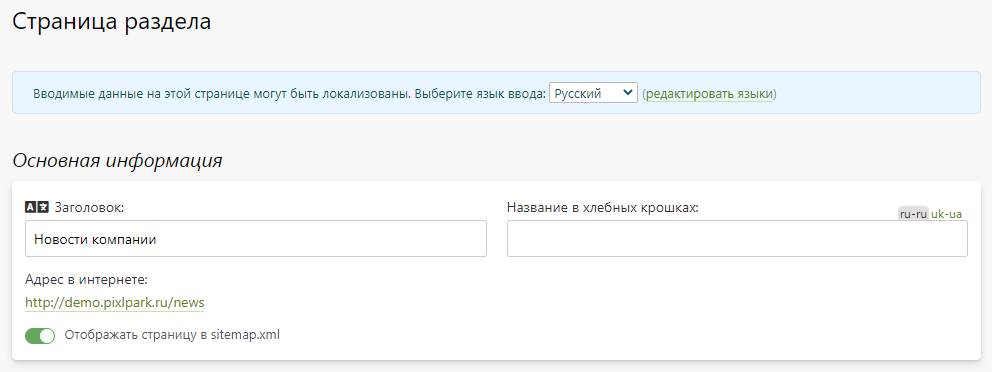
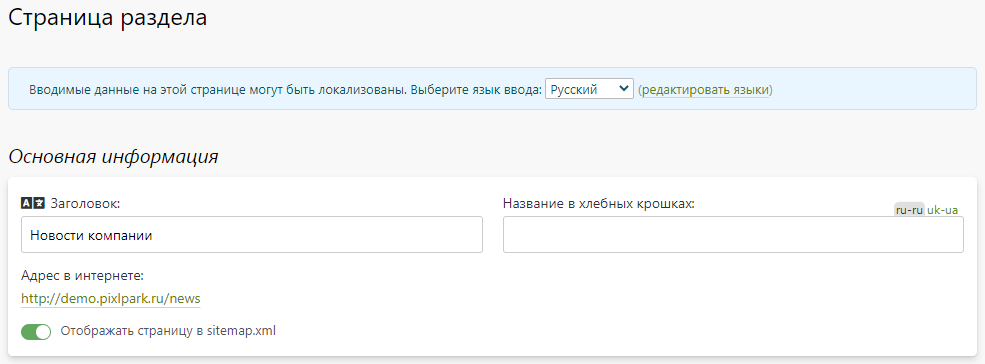
мелочи

diff --git a/docs/dev/design.md b/docs/dev/design.md
@@ -4,13 +4,13 @@
 * Сервис Pixlpark представлен [демо-сайтом](https://demo.pixlpark.ru/), внешний вид которого обладает набором стандартных дизайнов для шапки, меню, подвала, продуктовых страниц и калькуляторов. Ознакомиться с ними можно в панели "Оформление сайта", появляющейся при нажатии кнопки в левом верхнем углу сайта. Обращаем внимание, что данная панель присутствует только на демонстрационном сайте, а не на тестовых и боевых сайтах. 
 * Если вы используете сайт со стандартным дизайном, то изменить внешний вид какого-либо блока можно либо по заявке в техническую поддержку, либо самостоятельно, скопировав необходимую HTML-разметку с демонстрации.
 * Также можно провести брендирование демо-сайта или отдельных его блоков под корпоративный стиль или цвета логотипа.
-![](../_media/misc/standard-designs.png ':size=70%')
+![](../_media/misc/standard-designs.png ':size=80%')
 
 ## Разработка уникального дизайна
 * Однако, если вы, хотите, чтобы ваш сайт отличался от стандартного, можно разработать уникальный дизайн. Это можем сделать либо мы, либо вы (собственными силами, либо обратившись за помощью к профессионалам - веб-дизайнерам).
 * Самым бюджетным вариантом персонализации дизайна может считаться небольшое изменение внешнего вида любых блоков демо-сайта. Такой вариант подойдет если вам, например, надо изменить текст, баннеры, иллюстрации, иконки, отступы между элементами и их расположение.
 * Однако, если это не ваш случай, то при разработке уникального дизайна вам, всё же, необходимо будет придерживаться схемы расположения стандартных секций страниц сайта. Но, некоторые секции могут быть пропущены.
-![](../_media/dev/dev08.png ':size=50%')
+![](../_media/dev/dev08.png)
 
 ## Внедрение уникального дизайна
 * Внедрять разработанный уникальный дизайн можем как мы, так и вы. Для этого нужно воспользоваться следующими инструментами панели управления:
@@ -21,4 +21,7 @@
     + __Локализация__ (CMS / Локализация сайта) - редактирование текстовых констант сайта.
     + __Файлы__ (CMS / Менеджер файлов) - загрузка иллюстраций для последующего обращения к нам со страниц сайта или стилевых файлов.
     + __CSS-стили__ (CMS / Менеджер файлов - style.css | media.css) - редактирование стилей сайта для настольной и адаптивной версии. 
-*![](../_media/dev/design-elements.png ':size=70%')
+*![](../_media/dev/design-elements.png)
+
+* Добавим, что сервис Pixlpark также позволяет использовать разметку с внешнего сайта, которая может выводиться в CMS через константу __[$getRemote(https://адрес-сайта)$]__.
+*![](../_media/cms/remote.png)

diff --git a/docs/print/page.md b/docs/print/page.md
@@ -1,14 +1,16 @@
 # Страница раздела
-* В данном разделе можно сконфигурировать страницу списка категорий.  
+## Описание
+* В данном разделе можно сконфигурировать страницу [списка категорий](), доступной по адресу "__/printing__".  
 * Для простоты понимания можно представить, что страница категорий - это обычная страница сайта, обладающая теми же свойствами.
- 
+![](../_media/print/catalog.png ':size=80%') 
+
 ## Основная информация
 * __Заголовок__ - заголовок, который используется в качестве H1, если его нет в содержимом страницы.
 * __Название в хлебных крошках__ - название страницы в навигационной цепочке, которое выводится через константу `[$breadcrumbs$]`. Если название не задано, то используется заголовок.
 * __Адрес в интернете__ - адрес страницы на сайте.
 * __Отображать страницу в sitemap.xml__ - включить страницу в файл sitemap.xml, который используется для информирования поисковых систем о ее наличии на сайте.
-![](../_media/print/print11.png ':size=70%')
+![](../_media/print/page-general.png)
 
 ## Содержимое страницы
 * В данной разделе задается содержимое секций, из которых формируется страница сайта. По умолчанию содержимое задается в виде HTML-разметки, которая также может содержать стили и скрипты. Список категорий автоматически встраивается в секцию "Основной контент".
-![](../_media/print/print12.png ':size=70%')
+![](../_media/print/page-content.png)

diff --git a/docs/print/settings.md b/docs/print/settings.md
@@ -1,15 +1,20 @@
 # Настройка
 ## Основная информация
-* В данном разделе представлены общие настройки продуктов, шаблонов и редакторов.
-![](../_media/print/print13.png ':size=50%')
+* В данном разделе представлены общие настройки продуктов, дизайнов, мерча и редакторов.
+![](../_media/print/settings-general.png)
 
-## Редактор
+## Шрифты
 * В данном разделе представлены нестандартные шрифты, которые можно включить для редактора дизайнов.
-![](../_media/print/print14.png ':size=50%')
+* Также на странице можно:
+    + Загрузить сторонний шрифт из Google.
+    + Загрузить свой шрифт с компьютера.
+    + Скачать любой шрифт на компьютер.
+    + Выключить или включить доступность любого шрифта.
+* ![](../_media/print/settings-fonts.png)
 
 ## Метаинформация
 * В данном разделе задается информация для поисковых систем (метаинформация) - заголовок, описание и ключевые слова, которые используются по умолчанию для всех категорий и продуктов, если она у них не задана. Однако, для каждой категории и продукта можно задать свою собственную информацию.
-![](../_media/print/print15.png ':size=50%')
+![](../_media/print/settings-seo.png)
 
 ## Импорт
 * В данном разделе можно импортировать категории и продукты с одного из существующих сайтов в текущий.
@@ -31,5 +36,4 @@
     + клипарты;
     + переменные;
     + словари.
-
-![](../_media/print/print16.png ':size=70%')
+* ![](../_media/print/settings-import.png)

diff --git a/docs/faq/page.md b/docs/faq/page.md
@@ -1,6 +1,6 @@
 # Страница раздела
 ## Описание
-* В данном разделе можно сконфигурировать страницу списка [категорий и статей](https://demo.pixlpark.ru/faq).  
+* В данном разделе можно сконфигурировать страницу списка [категорий и статей](https://demo.pixlpark.ru/faq), доступной по адресу "__/faq__".  
 * Для простоты понимания можно представить, что страница списка категорий и статей - это обычная страница сайта, обладающая теми же самыми свойствами.
 ![](../_media/faq/faq.png ':size=80%')
 
@@ -9,7 +9,7 @@
 * __Название в хлебных крошках__ - название страницы в навигационной цепочке, которая выводится через константу `[$breadcrumbs$]`. Если название не задано, то используется заголовок.
 * __Адрес в интернете__ - адрес страницы на сайте.
 * __Отображать страницу в sitemap.xml__ - включить страницу в файл sitemap.xml, который используется для информирования поисковых систем о наличии на сайте данной страницы.
-![](../_media/faq/faq07.png)
+![](../_media/faq/page-general.png)
 
 ## Содержимое страницы
 * В данной разделе задается содержимое секций, из которых формируется страница сайта. По умолчанию содержимое задается в виде HTML-разметки, которая также может содержать стили и скрипты. Список категорий и статей автоматически встраивается в самый низ секции "__Основной контент__".

diff --git a/docs/gallery/page.md b/docs/gallery/page.md
@@ -1,6 +1,6 @@
 # Страница раздела
 ## Описание
-* В данном разделе можно сконфигурировать страницу [списка категорий](https://demo.pixlpark.ru/portfolio).  
+* В данном разделе можно сконфигурировать страницу [списка категорий](https://demo.pixlpark.ru/portfolio), доступной по адресу "__/portfolio__".  
 * Для простоты понимания можно представить, что страница категорий - это обычная страница сайта, обладающая теми же самыми свойствами.
 ![](../_media/gallery/list.png ':size=80%')
 
@@ -9,7 +9,7 @@
 * __Название в хлебных крошках__ - название страницы в навигационной цепочке, которая выводится через константу `[$breadcrumbs$]`. Если название не задано, то используется заголовок.
 * __Адрес в интернете__ - адрес страницы на сайте.
 * __Отображать страницу в sitemap.xml__ - включить страницу в файл sitemap.xml, который используется для информирования поисковых систем о наличии на сайте данной страницы.
-![](../_media/gallery/gallery04.png)
+![](../_media/gallery/page-general.png)
 
 ## Содержимое страницы
 * В данной разделе задается содержимое секций, из которых формируется страница сайта. По умолчанию содержимое задается в виде HTML-разметки, которая также может содержать стили и скрипты. Список категорий в виде иллюстраций автоматически встраивается в самый низ секции "__Основной контент__".

diff --git a/docs/gift/page.md b/docs/gift/page.md
@@ -1,6 +1,6 @@
 # Страница раздела
 ## Описание
-* В данном разделе можно сконфигурировать страницу [списка категорий](https://demo.pixlpark.ru/catalog).  
+* В данном разделе можно сконфигурировать страницу [списка категорий](https://demo.pixlpark.ru/catalog), доступной по адресу "__/catalog__".  
 * Для простоты понимания можно представить, что страница категорий сувениров - это обычная страница сайта, обладающая теми же свойствами.
 ![](../_media/gift/catalog.png ':size=80%')
 
@@ -9,7 +9,7 @@
 * __Название в хлебных крошках__ - название страницы в навигационной цепочке, которая выводится через константу `[$breadcrumbs$]`. Если название не задано, то используется заголовок.
 * __Адрес в интернете__ - адрес страницы на сайте.
 * __Отображать страницу в sitemap.xml__ - включить страницу в файл sitemap.xml, который используется для информирования поисковых систем о ее наличии на сайте
-![](../_media/gift/gift22.png ':size=70%')
+![](../_media/gift/page-general.png)
 
 ## Содержимое страницы
 * В данном разделе задается содержимое секций, из которых формируется страница сайта. По умолчанию содержимое задается в виде HTML-разметки, которая также может содержать стили и скрипты. Список категорий автоматически встраивается в самом низу секции "__Основной контент__".

diff --git a/docs/news/page.md b/docs/news/page.md
@@ -1,6 +1,6 @@
 # Страница раздела
 ## Описание
-* В данном разделе можно сконфигурировать страницу списка [новостей](https://demo.pixlpark.ru/news).  
+* В данном разделе можно сконфигурировать страницу [списка новостей](https://demo.pixlpark.ru/news), доступной по адресу "__/news__".  
 * Для простоты понимания можно представить, что страница новостей - это обычная страница сайта, обладающая теми же самыми свойствами.
 ![](../_media/news/news.png ':size=80%')
 
@@ -9,7 +9,7 @@
 * __Название в хлебных крошках__ - название страницы в навигационной цепочке, которая выводится через константу `[$breadcrumbs$]`. Если название не задано, то используется заголовок.
 * __Адрес в интернете__ - адрес страницы на сайте.
 * __Отображать страницу в sitemap.xml__ - включить страницу в файл sitemap.xml, который используется для информирования поисковых систем о наличии на сайте данной страницы.
-![](../_media/feedback/page-general.png)
+![](../_media/news/page-general.png)
 
 ## Содержимое страницы
 * В данной разделе задается содержимое секций, из которых формируется страница сайта. По умолчанию содержимое задается в виде HTML-разметки, которая также может содержать стили и скрипты. Список новостей автоматически встраивается в самый низ секции "__Основной контент__".

diff --git a/docs/shop/page.md b/docs/shop/page.md
@@ -1,6 +1,6 @@
 # Страница раздела
 ## Описание
-* В данном разделе можно сконфигурировать страницу [списка категорий](https://demo.pixlpark.ru/shop).  
+* В данном разделе можно сконфигурировать страницу [списка категорий](https://demo.pixlpark.ru/shop), доступной по адресу "__/shop__".  
 * Для простоты понимания можно представить, что страница категорий магазина - это обычная страница сайта, обладающая теми же свойствами.
 ![](../_media/shop/shop.png ':size=80%')
 
@@ -9,7 +9,7 @@
 * __Название в хлебных крошках__ - название страницы в навигационной цепочке, которое выводится через константу `[$breadcrumbs$]`. Если название не задано, то используется заголовок.
 * __Адрес в интернете__ - адрес страницы на сайте.
 * __Отображать страницу в sitemap.xml__ - включить страницу в файл sitemap.xml, который используется для информирования поисковых систем о её наличии на сайте.
-![](../_media/shop/shop23.png)
+![](../_media/shop/page-general.png)
 
 ## Содержимое страницы
 * В данной разделе задается содержимое секций, из которых формируется страница сайта. По умолчанию содержимое задается в виде HTML-разметки, которая также может содержать стили и скрипты. Список категорий автоматически встраивается в самый низ секции "__Основной контент__".

diff --git a/docs/feedback/page.md b/docs/feedback/page.md
@@ -1,6 +1,6 @@
 # Страница раздела
 ## Описание
-* В данном разделе можно сконфигурировать страницу [гостевой книги](https://demo.pixlpark.ru/guestbook), где выводятся отзывы и размещена форма обратной связи.  
+* В данном разделе можно сконфигурировать страницу [гостевой книги](https://demo.pixlpark.ru/guestbook), доступной по адресу "__/guestbook__", где выводятся отзывы и размещена форма обратной связи.  
 * Для простоты понимания можно представить, что страница гостевой книги - это обычная страница сайта, обладающая теми же самыми свойствами.
 ![](../_media/feedback/guestbooks.png ':size=80%')
 

diff --git a/docs/orders/report.md b/docs/orders/report.md
@@ -11,6 +11,8 @@
     + __Продукция__ - категории продуктов и товаров в разрезе количества и стоимости.
     ![](../_media/order/order-report-products.png)
 
+* Отметим, что заданный временной интервал применяется только в статусу заказа. Т.е. в указанном интервале у заказа должен быть такой статус. А все остальные фильтры - это текущее состояние заказа.
+
 * Также в блоке "__Статистика__" можно:
     + __Скачать статистику по заказам__ - скачать список заказов в эксель-файле.
     + __Скачать детализацию по заказам__ - скачать список заказов с доп. полями в эксель-файле.
